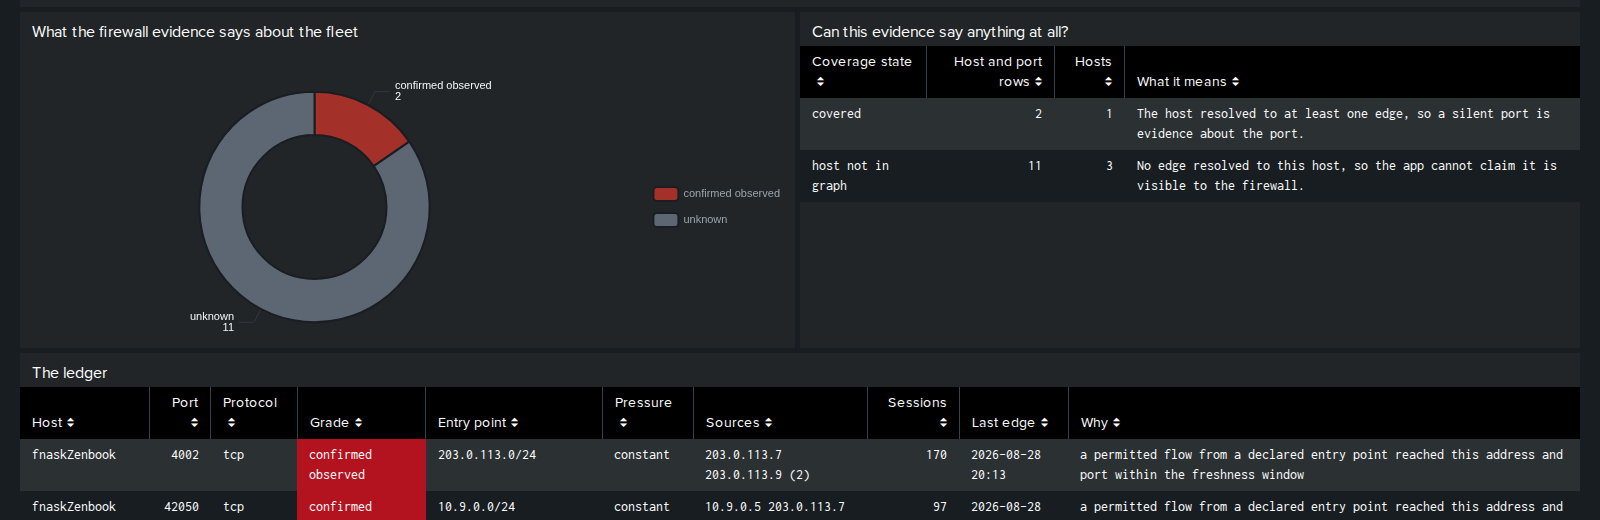
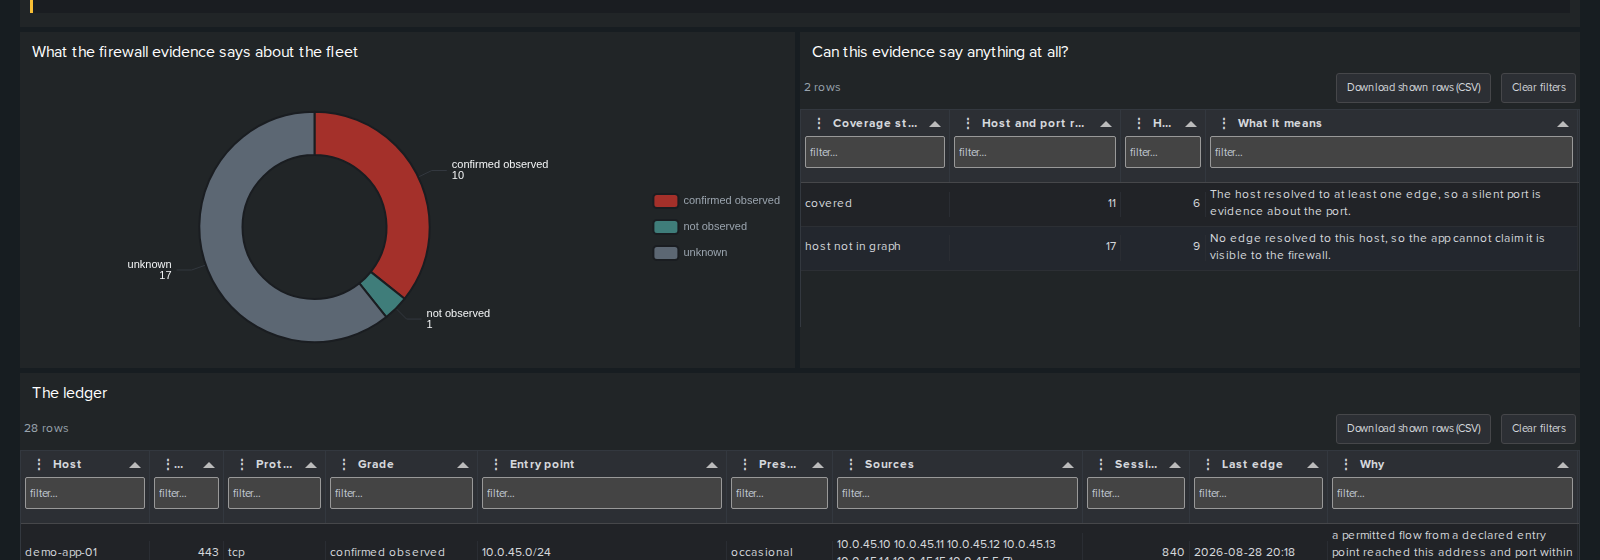
Caption every screenshot, and recapture Network evidence with a source wired
Nineteen captures had a title and no caption. Each now says what the page
is for, in the README's own terms, so the gallery reads without the README
beside it. The two Network evidence captures were taken before a firewall
source existed and showed every row unknown; they now show the wired state
on the demo fleet: ten ports confirmed observed, one not observed, the
coverage grid, and the ledger as the grid every other page uses.

Claude-Session: https://claude.ai/code/session_015h4XPQmzofVzmoNycK2dQN

diff --git a/docs/index.html b/docs/index.html
@@ -56,102 +56,102 @@
       </figure>
       <figure class="card" id="network-evidence" data-name="network-evidence">
         <a href="screenshots/network-evidence.png" target="_blank" rel="noopener"><img loading="lazy" src="screenshots/network-evidence.png" alt="Network evidence"></a>
-        <figcaption><b>Network evidence</b> <span class="dim">Whether a permitted flow to a listening port has been observed, the coverage state that gates every grade, and where the app refused to name a host.</span><span class="date">2026-09-03</span></figcaption>
+        <figcaption><b>Network evidence</b> <span class="dim">With a firewall source wired: ten ports confirmed observed from a declared entry point, one graded not observed on a covered host, the rest unknown, and the coverage state that gates every grade. Every table sorts and filters by column.</span><span class="date">2026-09-03</span></figcaption>
       </figure>
       <figure class="card" id="netevidence-grades" data-name="netevidence-grades">
         <a href="screenshots/netevidence-grades.png" target="_blank" rel="noopener"><img loading="lazy" src="screenshots/netevidence-grades.png" alt="Network evidence, grades"></a>
-        <figcaption><b>Network evidence, grades</b> <span class="dim">The grade donut: no green anywhere, because none of these grades means safe.</span><span class="date">2026-09-02</span></figcaption>
+        <figcaption><b>Network evidence, grades</b> <span class="dim">The grade donut with the coverage grid beside it. No green anywhere, because none of these grades means safe; not observed is the app&#x27;s one negative claim and it is licensed only where a constant pressure entry point is declared.</span><span class="date">2026-09-02</span></figcaption>
       </figure>
       <figure class="card" id="routes" data-name="routes">
         <a href="screenshots/routes.png" target="_blank" rel="noopener"><img loading="lazy" src="screenshots/routes.png" alt="Routes"></a>
-        <figcaption><b>Routes</b> <span class="dim">The jumps a permitted flow has been seen to make: entry point, host reached, port, software listening, open findings.</span><span class="date">2026-09-03</span></figcaption>
+        <figcaption><b>Routes</b> <span class="dim">The jumps a permitted flow has been seen to make, laid out by hop: entry point, the host reached, its port, the software listening, the findings open in it. Each host to host jump carries the port and session count; a red edge lands on software with a known exploited or high EPSS finding open.</span><span class="date">2026-09-03</span></figcaption>
       </figure>
       <figure class="card" id="routes-host-filter" data-name="routes-host-filter">
         <a href="screenshots/routes-host-filter.png" target="_blank" rel="noopener"><img loading="lazy" src="screenshots/routes-host-filter.png" alt="Routes, one host"></a>
-        <figcaption><b>Routes, one host</b> <span class="dim">Filtered to one host: only the chains through it, at the hops the unfiltered graph gives them. Red edges land on software with a known-exploited or EPSS 50%+ finding open.</span><span class="date">2026-09-03</span></figcaption>
+        <figcaption><b>Routes, one host</b> <span class="dim">Filtered to one host: only the chains through it, at the hops the unfiltered graph gives them. A host reached both directly and through two others sits in both columns.</span><span class="date">2026-09-03</span></figcaption>
       </figure>
       <figure class="card" id="routes-drilldown" data-name="routes-drilldown">
         <a href="screenshots/routes-drilldown.png" target="_blank" rel="noopener"><img loading="lazy" src="screenshots/routes-drilldown.png" alt="Routes, drill-down"></a>
-        <figcaption><b>Routes, drill-down</b> <span class="dim">Clicking a point on the route opens the findings behind it on the same page.</span><span class="date">2026-09-03</span></figcaption>
+        <figcaption><b>Routes, drill-down</b> <span class="dim">Clicking a point on the route opens the findings behind it on the same page, with tier, score, KEV, fix version and the pipeline&#x27;s rationale.</span><span class="date">2026-09-03</span></figcaption>
       </figure>
       <figure class="card" id="admin-escalation-rules" data-name="admin-escalation-rules">
         <a href="screenshots/admin-escalation-rules.png" target="_blank" rel="noopener"><img loading="lazy" src="screenshots/admin-escalation-rules.png" alt="Escalation rules (admin)"></a>
-        <figcaption><b>Escalation rules (admin)</b> <span class="dim">Every rule with a switch, the replay of what each would move, and locked rules with the reason they cannot be enabled.</span><span class="date">2026-09-03</span></figcaption>
+        <figcaption><b>Escalation rules (admin)</b> <span class="dim">Every rule with a switch, the replay of what each would move against the fleet as it stands, and locked rules with the reason they cannot be enabled.</span><span class="date">2026-09-03</span></figcaption>
       </figure>
       <figure class="card" id="admin-firewall-source" data-name="admin-firewall-source">
         <a href="screenshots/admin-firewall-source.png" target="_blank" rel="noopener"><img loading="lazy" src="screenshots/admin-firewall-source.png" alt="Firewall data source (admin)"></a>
-        <figcaption><b>Firewall data source (admin)</b> <span class="dim">Index or accelerated data model, field mapping, entry points, freshness; Test and top-100 preview before Save.</span><span class="date">2026-09-03</span></figcaption>
+        <figcaption><b>Firewall data source (admin)</b> <span class="dim">Index or accelerated data model, field mapping, entry points with their scan pressure, freshness; Test source and Show top 100 edges before Save.</span><span class="date">2026-09-03</span></figcaption>
       </figure>
 </div>
 <h2>Everything else</h2>
 <div class="grid" id="rest">
       <figure class="card" id="attack-matrix-fuller" data-name="attack-matrix-fuller">
-        <a href="screenshots/attack-matrix-fuller.png" target="_blank" rel="noopener"><img loading="lazy" src="screenshots/attack-matrix-fuller.png" alt="ATT&amp;CK matrix"></a>
-        <figcaption><b>ATT&amp;CK matrix</b><span class="date">2026-08-27</span></figcaption>
+        <a href="screenshots/attack-matrix-fuller.png" target="_blank" rel="noopener"><img loading="lazy" src="screenshots/attack-matrix-fuller.png" alt="ATT&amp;CK matrix and its denominator"></a>
+        <figcaption><b>ATT&amp;CK matrix and its denominator</b> <span class="dim">Four evidence sources place a CVE on ATT&amp;CK, each labelled and filterable. The caption is the honest denominator: unique open CVEs in scope, how many placed and through which source, how many not and why.</span><span class="date">2026-08-27</span></figcaption>
       </figure>
       <figure class="card" id="capec-attack-patterns" data-name="capec-attack-patterns">
         <a href="screenshots/capec-attack-patterns.png" target="_blank" rel="noopener"><img loading="lazy" src="screenshots/capec-attack-patterns.png" alt="CAPEC attack patterns"></a>
-        <figcaption><b>CAPEC attack patterns</b><span class="date">2026-08-26</span></figcaption>
+        <figcaption><b>CAPEC attack patterns</b> <span class="dim">CAPEC&#x27;s own words for the entry requirement and the opening move, per attack pattern, sorted by whether a copy of the vulnerable package answers the network. Measured reach on the left, MITRE&#x27;s generic rating on the right.</span><span class="date">2026-08-26</span></figcaption>
       </figure>
       <figure class="card" id="config-surface" data-name="config-surface">
         <a href="screenshots/config-surface.png" target="_blank" rel="noopener"><img loading="lazy" src="screenshots/config-surface.png" alt="Configuration surface"></a>
-        <figcaption><b>Configuration surface</b><span class="date">2026-08-27</span></figcaption>
+        <figcaption><b>Configuration surface</b> <span class="dim">What each host is configured to run: cron, systemd timers and services, SUID and SGID binaries, each carrying the ATT&amp;CK technique it is the surface for. The half of ATT&amp;CK a CVE feed cannot reach, counted in mechanisms rather than CVEs.</span><span class="date">2026-08-27</span></figcaption>
       </figure>
       <figure class="card" id="coverage" data-name="coverage">
         <a href="screenshots/coverage.png" target="_blank" rel="noopener"><img loading="lazy" src="screenshots/coverage.png" alt="Coverage"></a>
-        <figcaption><b>Coverage</b><span class="date">2026-08-23</span></figcaption>
+        <figcaption><b>Coverage</b> <span class="dim">The honest page. What the imported feed cannot assess and why, whether everything the collector found actually arrived, Windows patch level against Microsoft&#x27;s own build data, and the support timeline.</span><span class="date">2026-08-23</span></figcaption>
       </figure>
       <figure class="card" id="cve-encyclopaedia" data-name="cve-encyclopaedia">
         <a href="screenshots/cve-encyclopaedia.png" target="_blank" rel="noopener"><img loading="lazy" src="screenshots/cve-encyclopaedia.png" alt="CVE encyclopaedia"></a>
-        <figcaption><b>CVE encyclopaedia</b><span class="date">2026-08-23</span></figcaption>
+        <figcaption><b>CVE encyclopaedia</b> <span class="dim">What any vulnerability the feed carries actually is, and where it sits in this fleet. Entirely offline.</span><span class="date">2026-08-23</span></figcaption>
       </figure>
       <figure class="card" id="end-of-support" data-name="end-of-support">
         <a href="screenshots/end-of-support.png" target="_blank" rel="noopener"><img loading="lazy" src="screenshots/end-of-support.png" alt="End of support"></a>
-        <figcaption><b>End of support</b><span class="date">2026-08-29</span></figcaption>
+        <figcaption><b>End of support</b> <span class="dim">Software on the fleet that has run out of supported releases, placed on a timeline at the date support ends, with how much evidence there is that it runs. Who ships a copy decides whether it is really unsupported.</span><span class="date">2026-08-29</span></figcaption>
       </figure>
       <figure class="card" id="end-of-support-hosts" data-name="end-of-support-hosts">
-        <a href="screenshots/end-of-support-hosts.png" target="_blank" rel="noopener"><img loading="lazy" src="screenshots/end-of-support-hosts.png" alt="End of support, hosts"></a>
-        <figcaption><b>End of support, hosts</b><span class="date">2026-08-29</span></figcaption>
+        <a href="screenshots/end-of-support-hosts.png" target="_blank" rel="noopener"><img loading="lazy" src="screenshots/end-of-support-hosts.png" alt="End of support, by host"></a>
+        <figcaption><b>End of support, by host</b> <span class="dim">Where each end of support product is installed, so the timeline above can be turned into a list of machines.</span><span class="date">2026-08-29</span></figcaption>
       </figure>
       <figure class="card" id="escalations" data-name="escalations">
         <a href="screenshots/escalations.png" target="_blank" rel="noopener"><img loading="lazy" src="screenshots/escalations.png" alt="Escalation rules (earlier, main app)"></a>
-        <figcaption><b>Escalation rules (earlier, main app)</b> <span class="dim">Before the page moved to the admin app.</span><span class="date">2026-09-02</span></figcaption>
+        <figcaption><b>Escalation rules (earlier, main app)</b> <span class="dim">The rules page as it first shipped in the main app, before it moved to the configuration app and gained switches.</span><span class="date">2026-09-02</span></figcaption>
       </figure>
       <figure class="card" id="exposure" data-name="exposure">
         <a href="screenshots/exposure.png" target="_blank" rel="noopener"><img loading="lazy" src="screenshots/exposure.png" alt="Exposure"></a>
-        <figcaption><b>Exposure</b> <span class="dim">The priority matrix and the reachability chain.</span><span class="date">2026-08-23</span></figcaption>
+        <figcaption><b>Exposure</b> <span class="dim">The priority matrix, open findings by network reach against exploitation likelihood, the most exposed hosts, and the chain the network takes: edge, listening process, container, package, CVE.</span><span class="date">2026-08-23</span></figcaption>
       </figure>
       <figure class="card" id="feed-administration" data-name="feed-administration">
         <a href="screenshots/feed-administration.png" target="_blank" rel="noopener"><img loading="lazy" src="screenshots/feed-administration.png" alt="Feed administration (admin)"></a>
-        <figcaption><b>Feed administration (admin)</b><span class="date">2026-08-23</span></figcaption>
+        <figcaption><b>Feed administration (admin)</b> <span class="dim">Build, upload and import bundles, fetch sources directly on an instance that has a route out, and set index names. In the Riskability Configuration app, administrators only.</span><span class="date">2026-08-23</span></figcaption>
       </figure>
       <figure class="card" id="feed-import-progress" data-name="feed-import-progress">
-        <a href="screenshots/feed-import-progress.png" target="_blank" rel="noopener"><img loading="lazy" src="screenshots/feed-import-progress.png" alt="Feed import progress (admin)"></a>
-        <figcaption><b>Feed import progress (admin)</b><span class="date">2026-08-23</span></figcaption>
+        <a href="screenshots/feed-import-progress.png" target="_blank" rel="noopener"><img loading="lazy" src="screenshots/feed-import-progress.png" alt="Feed import in progress (admin)"></a>
+        <figcaption><b>Feed import in progress (admin)</b> <span class="dim">An import runs on the server and does not need the page kept open. The active feed stays searchable throughout, so importing never blinds the fleet.</span><span class="date">2026-08-23</span></figcaption>
       </figure>
       <figure class="card" id="findings" data-name="findings">
         <a href="screenshots/findings.png" target="_blank" rel="noopener"><img loading="lazy" src="screenshots/findings.png" alt="Findings"></a>
-        <figcaption><b>Findings</b><span class="date">2026-08-23</span></figcaption>
+        <figcaption><b>Findings</b> <span class="dim">Every finding ranked by EPSS rather than CVSS, with confidence, KEV status and the fixed version where one is known. Column filters narrow what is shown, not what was searched.</span><span class="date">2026-08-23</span></figcaption>
       </figure>
       <figure class="card" id="fleet-overview" data-name="fleet-overview">
         <a href="screenshots/fleet-overview.png" target="_blank" rel="noopener"><img loading="lazy" src="screenshots/fleet-overview.png" alt="Fleet overview"></a>
-        <figcaption><b>Fleet overview</b><span class="date">2026-08-23</span></figcaption>
+        <figcaption><b>Fleet overview</b> <span class="dim">How stale the feed is, how many hosts are reporting, and where the open findings are concentrated.</span><span class="date">2026-08-23</span></figcaption>
       </figure>
       <figure class="card" id="hosts" data-name="hosts">
         <a href="screenshots/hosts.png" target="_blank" rel="noopener"><img loading="lazy" src="screenshots/hosts.png" alt="Hosts"></a>
-        <figcaption><b>Hosts</b><span class="date">2026-08-23</span></figcaption>
+        <figcaption><b>Hosts</b> <span class="dim">Every host at a glance, split by filesystem root, so a package inside a container is never confused with the same package on the host.</span><span class="date">2026-08-23</span></figcaption>
       </figure>
       <figure class="card" id="kev-bridge" data-name="kev-bridge">
-        <a href="screenshots/kev-bridge.png" target="_blank" rel="noopener"><img loading="lazy" src="screenshots/kev-bridge.png" alt="KEV bridge"></a>
-        <figcaption><b>KEV bridge</b><span class="date">2026-08-26</span></figcaption>
+        <a href="screenshots/kev-bridge.png" target="_blank" rel="noopener"><img loading="lazy" src="screenshots/kev-bridge.png" alt="Known exploited to technique"></a>
+        <figcaption><b>Known exploited to technique</b> <span class="dim">MITRE&#x27;s mapping of each CISA known exploited CVE to the technique that exploits it, coloured by the reach of the finding rather than the count: one known exploited package answering the network is drawn as loud as a thousand that answer nothing.</span><span class="date">2026-08-26</span></figcaption>
       </figure>
       <figure class="card" id="mitigation-coverage" data-name="mitigation-coverage">
         <a href="screenshots/mitigation-coverage.png" target="_blank" rel="noopener"><img loading="lazy" src="screenshots/mitigation-coverage.png" alt="Mitigation coverage"></a>
-        <figcaption><b>Mitigation coverage</b><span class="date">2026-08-26</span></figcaption>
+        <figcaption><b>Mitigation coverage</b> <span class="dim">MITRE mitigations ranked by how many of the fleet&#x27;s reachable techniques each would address, split by reach, so the highest leverage control is first. A mitigation reduces the technique; the CVEs still need fixing.</span><span class="date">2026-08-26</span></figcaption>
       </figure>
       <figure class="card" id="mitre-attack" data-name="mitre-attack">
         <a href="screenshots/mitre-attack.png" target="_blank" rel="noopener"><img loading="lazy" src="screenshots/mitre-attack.png" alt="MITRE ATT&amp;CK"></a>
-        <figcaption><b>MITRE ATT&amp;CK</b><span class="date">2026-08-23</span></figcaption>
+        <figcaption><b>MITRE ATT&amp;CK</b> <span class="dim">Which adversary techniques the open findings could enable, built from four kinds of evidence that carry different strengths of claim and are never blended into one number.</span><span class="date">2026-08-23</span></figcaption>
       </figure>
       <figure class="card" id="netevidence" data-name="netevidence">
         <a href="screenshots/netevidence.png" target="_blank" rel="noopener"><img loading="lazy" src="screenshots/netevidence.png" alt="Netevidence"></a>
@@ -159,15 +159,15 @@
       </figure>
       <figure class="card" id="remediation" data-name="remediation">
         <a href="screenshots/remediation.png" target="_blank" rel="noopener"><img loading="lazy" src="screenshots/remediation.png" alt="Remediation"></a>
-        <figcaption><b>Remediation</b><span class="date">2026-08-23</span></figcaption>
+        <figcaption><b>Remediation</b> <span class="dim">What was actually fixed, and what merely stopped being reported. Installer artifacts closed with their own reason are counted as neither.</span><span class="date">2026-08-23</span></figcaption>
       </figure>
       <figure class="card" id="risk-exceptions" data-name="risk-exceptions">
         <a href="screenshots/risk-exceptions.png" target="_blank" rel="noopener"><img loading="lazy" src="screenshots/risk-exceptions.png" alt="Risk exceptions"></a>
-        <figcaption><b>Risk exceptions</b><span class="date">2026-08-23</span></figcaption>
+        <figcaption><b>Risk exceptions</b> <span class="dim">Findings someone accepted, why, until when, and who said so. Written to an audit index that is appended to and never rewritten.</span><span class="date">2026-08-23</span></figcaption>
       </figure>
       <figure class="card" id="start-here" data-name="start-here">
         <a href="screenshots/start-here.png" target="_blank" rel="noopener"><img loading="lazy" src="screenshots/start-here.png" alt="Start here"></a>
-        <figcaption><b>Start here</b><span class="date">2026-08-23</span></figcaption>
+        <figcaption><b>Start here</b> <span class="dim">The default landing page. What every number on the other pages means and, just as importantly, what it does not.</span><span class="date">2026-08-23</span></figcaption>
       </figure>
 </div>
 <footer>Served by GitHub Pages from the <code>docs/</code> folder of <a href="https://github.com/chaugan/riskability">chaugan/riskability</a>. Re-run <code>tools/build_gallery.py</code> after adding captures.</footer>

diff --git a/tools/build_gallery.py b/tools/build_gallery.py
@@ -15,22 +15,33 @@ SHOTS = "docs/screenshots"
 CAPTIONS = {
  "ai-prioritization":      ("AI prioritization", "The sea of CVEs banded by exploit likelihood, the few lifted above the waterline, and the paged, sortable, filterable work queue with the model's reasoning beside each row."),
  "ai-explain-rendered":    ("Explain in depth, rendered", "A saved explanation opened from its green button: headings, paragraphs and lists built from the model's markdown, with Re-run beside it."),
- "network-evidence":       ("Network evidence", "Whether a permitted flow to a listening port has been observed, the coverage state that gates every grade, and where the app refused to name a host."),
- "netevidence-grades":     ("Network evidence, grades", "The grade donut: no green anywhere, because none of these grades means safe."),
- "routes":                 ("Routes", "The jumps a permitted flow has been seen to make: entry point, host reached, port, software listening, open findings."),
- "routes-drilldown":       ("Routes, drill-down", "Clicking a point on the route opens the findings behind it on the same page."),
- "routes-host-filter":     ("Routes, one host", "Filtered to one host: only the chains through it, at the hops the unfiltered graph gives them. Red edges land on software with a known-exploited or EPSS 50%+ finding open."),
- "admin-escalation-rules": ("Escalation rules (admin)", "Every rule with a switch, the replay of what each would move, and locked rules with the reason they cannot be enabled."),
- "admin-firewall-source":  ("Firewall data source (admin)", "Index or accelerated data model, field mapping, entry points, freshness; Test and top-100 preview before Save."),
- "escalations":            ("Escalation rules (earlier, main app)", "Before the page moved to the admin app."),
- "exposure":               ("Exposure", "The priority matrix and the reachability chain."),
- "fleet-overview":         ("Fleet overview", ""), "findings": ("Findings", ""), "remediation": ("Remediation", ""),
- "mitre-attack":           ("MITRE ATT&CK", ""), "hosts": ("Hosts", ""), "coverage": ("Coverage", ""),
- "risk-exceptions":        ("Risk exceptions", ""), "cve-encyclopaedia": ("CVE encyclopaedia", ""), "start-here": ("Start here", ""),
- "feed-administration":    ("Feed administration (admin)", ""), "feed-import-progress": ("Feed import progress (admin)", ""),
- "config-surface":         ("Configuration surface", ""), "kev-bridge": ("KEV bridge", ""), "mitigation-coverage": ("Mitigation coverage", ""),
- "capec-attack-patterns":  ("CAPEC attack patterns", ""), "attack-matrix-fuller": ("ATT&CK matrix", ""),
- "end-of-support":         ("End of support", ""), "end-of-support-hosts": ("End of support, hosts", ""),
+ "network-evidence":       ("Network evidence", "With a firewall source wired: ten ports confirmed observed from a declared entry point, one graded not observed on a covered host, the rest unknown, and the coverage state that gates every grade. Every table sorts and filters by column."),
+ "netevidence-grades":     ("Network evidence, grades", "The grade donut with the coverage grid beside it. No green anywhere, because none of these grades means safe; not observed is the app's one negative claim and it is licensed only where a constant pressure entry point is declared."),
+ "routes":                 ("Routes", "The jumps a permitted flow has been seen to make, laid out by hop: entry point, the host reached, its port, the software listening, the findings open in it. Each host to host jump carries the port and session count; a red edge lands on software with a known exploited or high EPSS finding open."),
+ "routes-host-filter":     ("Routes, one host", "Filtered to one host: only the chains through it, at the hops the unfiltered graph gives them. A host reached both directly and through two others sits in both columns."),
+ "routes-drilldown":       ("Routes, drill-down", "Clicking a point on the route opens the findings behind it on the same page, with tier, score, KEV, fix version and the pipeline's rationale."),
+ "admin-escalation-rules": ("Escalation rules (admin)", "Every rule with a switch, the replay of what each would move against the fleet as it stands, and locked rules with the reason they cannot be enabled."),
+ "admin-firewall-source":  ("Firewall data source (admin)", "Index or accelerated data model, field mapping, entry points with their scan pressure, freshness; Test source and Show top 100 edges before Save."),
+ "start-here":             ("Start here", "The default landing page. What every number on the other pages means and, just as importantly, what it does not."),
+ "fleet-overview":         ("Fleet overview", "How stale the feed is, how many hosts are reporting, and where the open findings are concentrated."),
+ "findings":               ("Findings", "Every finding ranked by EPSS rather than CVSS, with confidence, KEV status and the fixed version where one is known. Column filters narrow what is shown, not what was searched."),
+ "remediation":            ("Remediation", "What was actually fixed, and what merely stopped being reported. Installer artifacts closed with their own reason are counted as neither."),
+ "mitre-attack":           ("MITRE ATT&CK", "Which adversary techniques the open findings could enable, built from four kinds of evidence that carry different strengths of claim and are never blended into one number."),
+ "attack-matrix-fuller":   ("ATT&CK matrix and its denominator", "Four evidence sources place a CVE on ATT&CK, each labelled and filterable. The caption is the honest denominator: unique open CVEs in scope, how many placed and through which source, how many not and why."),
+ "kev-bridge":             ("Known exploited to technique", "MITRE's mapping of each CISA known exploited CVE to the technique that exploits it, coloured by the reach of the finding rather than the count: one known exploited package answering the network is drawn as loud as a thousand that answer nothing."),
+ "capec-attack-patterns":  ("CAPEC attack patterns", "CAPEC's own words for the entry requirement and the opening move, per attack pattern, sorted by whether a copy of the vulnerable package answers the network. Measured reach on the left, MITRE's generic rating on the right."),
+ "mitigation-coverage":    ("Mitigation coverage", "MITRE mitigations ranked by how many of the fleet's reachable techniques each would address, split by reach, so the highest leverage control is first. A mitigation reduces the technique; the CVEs still need fixing."),
+ "config-surface":         ("Configuration surface", "What each host is configured to run: cron, systemd timers and services, SUID and SGID binaries, each carrying the ATT&CK technique it is the surface for. The half of ATT&CK a CVE feed cannot reach, counted in mechanisms rather than CVEs."),
+ "exposure":               ("Exposure", "The priority matrix, open findings by network reach against exploitation likelihood, the most exposed hosts, and the chain the network takes: edge, listening process, container, package, CVE."),
+ "hosts":                  ("Hosts", "Every host at a glance, split by filesystem root, so a package inside a container is never confused with the same package on the host."),
+ "coverage":               ("Coverage", "The honest page. What the imported feed cannot assess and why, whether everything the collector found actually arrived, Windows patch level against Microsoft's own build data, and the support timeline."),
+ "end-of-support":         ("End of support", "Software on the fleet that has run out of supported releases, placed on a timeline at the date support ends, with how much evidence there is that it runs. Who ships a copy decides whether it is really unsupported."),
+ "end-of-support-hosts":   ("End of support, by host", "Where each end of support product is installed, so the timeline above can be turned into a list of machines."),
+ "risk-exceptions":        ("Risk exceptions", "Findings someone accepted, why, until when, and who said so. Written to an audit index that is appended to and never rewritten."),
+ "cve-encyclopaedia":      ("CVE encyclopaedia", "What any vulnerability the feed carries actually is, and where it sits in this fleet. Entirely offline."),
+ "feed-administration":    ("Feed administration (admin)", "Build, upload and import bundles, fetch sources directly on an instance that has a route out, and set index names. In the Riskability Configuration app, administrators only."),
+ "feed-import-progress":   ("Feed import in progress (admin)", "An import runs on the server and does not need the page kept open. The active feed stays searchable throughout, so importing never blinds the fleet."),
+ "escalations":            ("Escalation rules (earlier, main app)", "The rules page as it first shipped in the main app, before it moved to the configuration app and gained switches."),
 }
 # The section at the top. Edit when a batch of pages changes.
 RECENT_TITLE = "Changed on 2026-09-03"
